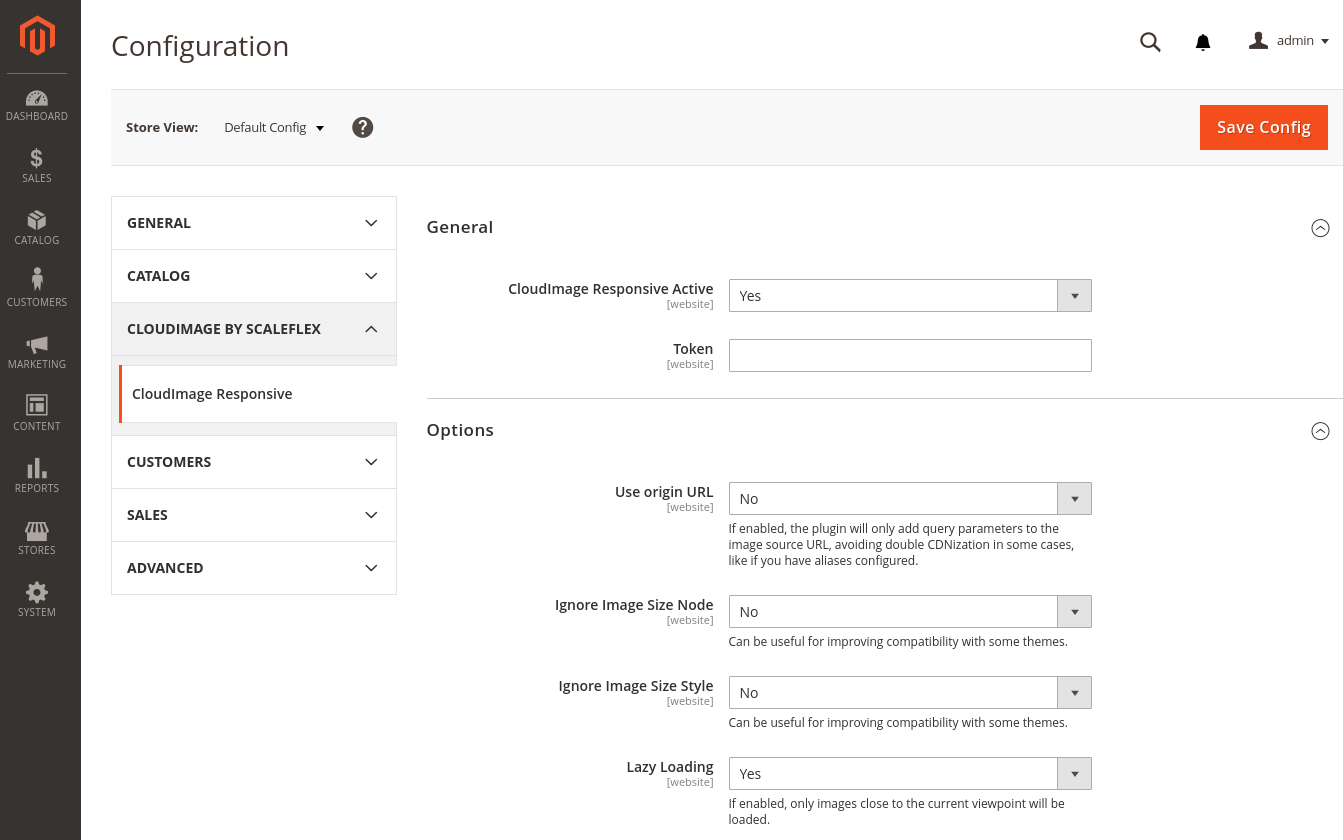
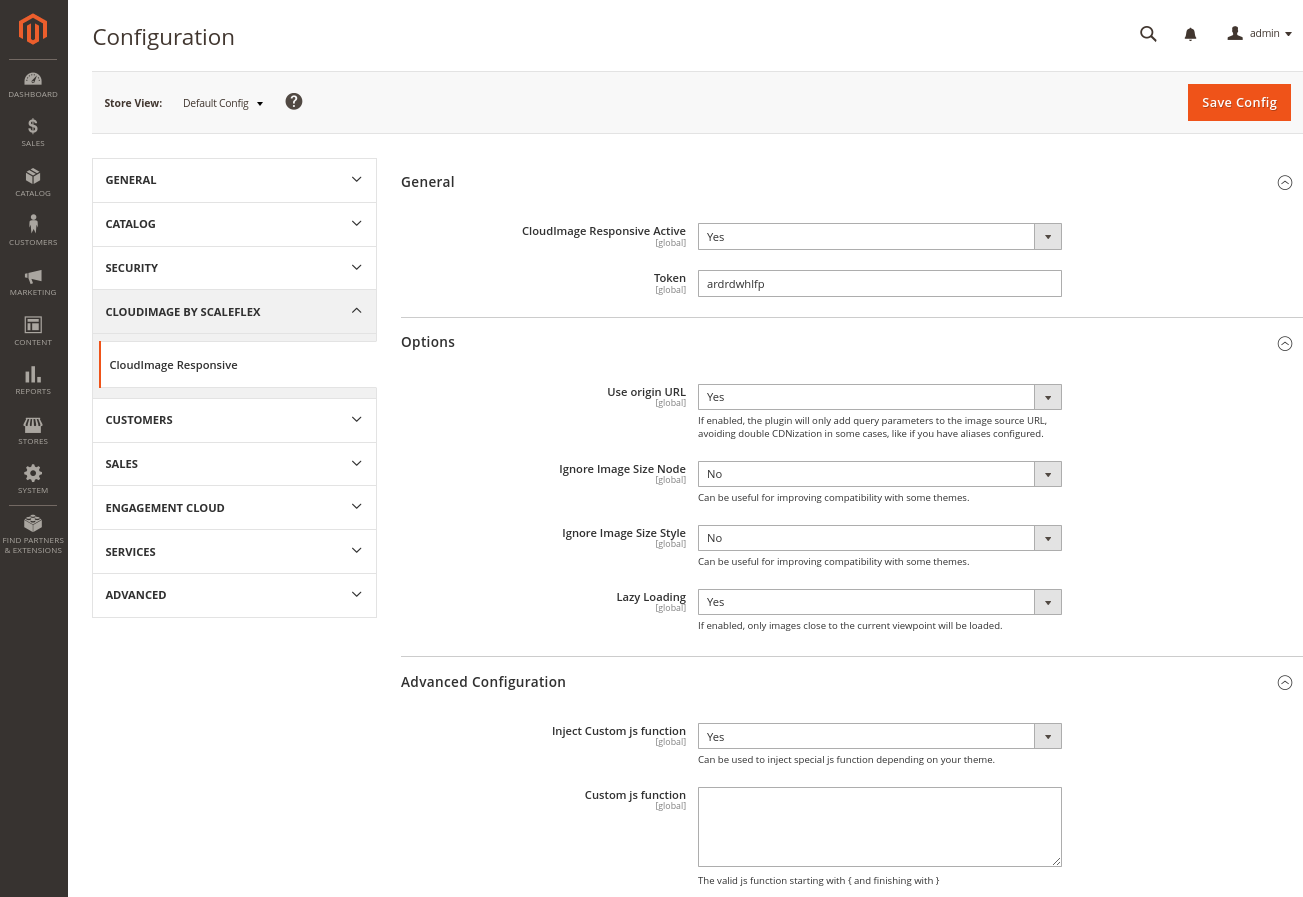
Documentation update

diff --git a/README.md b/README.md
@@ -26,7 +26,8 @@ To be able to install the module by Composer, you need to get a copy of the modu
  
 
 ```shell
-composer require cloudimage/responsive --sort-packages
+composer config repositories.cloudimage vcs https://github.com/scaleflex/magento-cloudimage-responsive
+composer require cloudimage/module-responsive-plugin --sort-packages
 ```
 
 Enable and install following modules in Magento:
@@ -61,3 +62,36 @@ Following options are available:
 **Ignore Image Size Style:** useful for improving compatibility with some themes.
 
 **Lazy Loading:** if enabled, images will be lazy-loaded for better loading times and user experience.
+
+## Advanced Configuration
+
+This section is reserved for advanded user only!
+
+Depending the template you have, it will be useful to customize the way Cloudimage get DOM information around your media files.
+
+**Inject Custom JS function:** If enabled, you will be able to customize the js function used dynamically to get the DOM information.
+
+**Custom js function:** The js function to customize Cloudimage library.
+
+## Template Integration
+
+In order to identify the media files Cloudimage will optimize, it is necessary to adapt your media template files.
+
+The operation is simple. You need to replace DOM image element source "src" by a "ci-src". 
+
+Like this: `<img src="" />` element by `<img ci-src="" />`.
+
+### Example
+
+For example, with Magento_Catalog Product image template : `product/image_with_borders.phtml`
+
+1. Copy Magento original template in your theme : `app/design/frontend/<your-theme>/default/Magento_Catalog/templates/product/image_with_borders.phtml`
+
+2. Replace the src line `src="<?= $block->(...)"` 
+by `ci-src="<?= $block->(...)"`
+
+Here is an example using Cloudimage helper to modify the image element only if the Responsive plugin is activated:
+
+Template : `app/design/frontend/<your-theme>/default/Magento_Catalog/templates/product/image_with_borders.phtml`
+
+![CloudImage Template Integration example](doc/images/cloudimage_template_integration_example.png "CloudImage Responsive Configuration Page")
